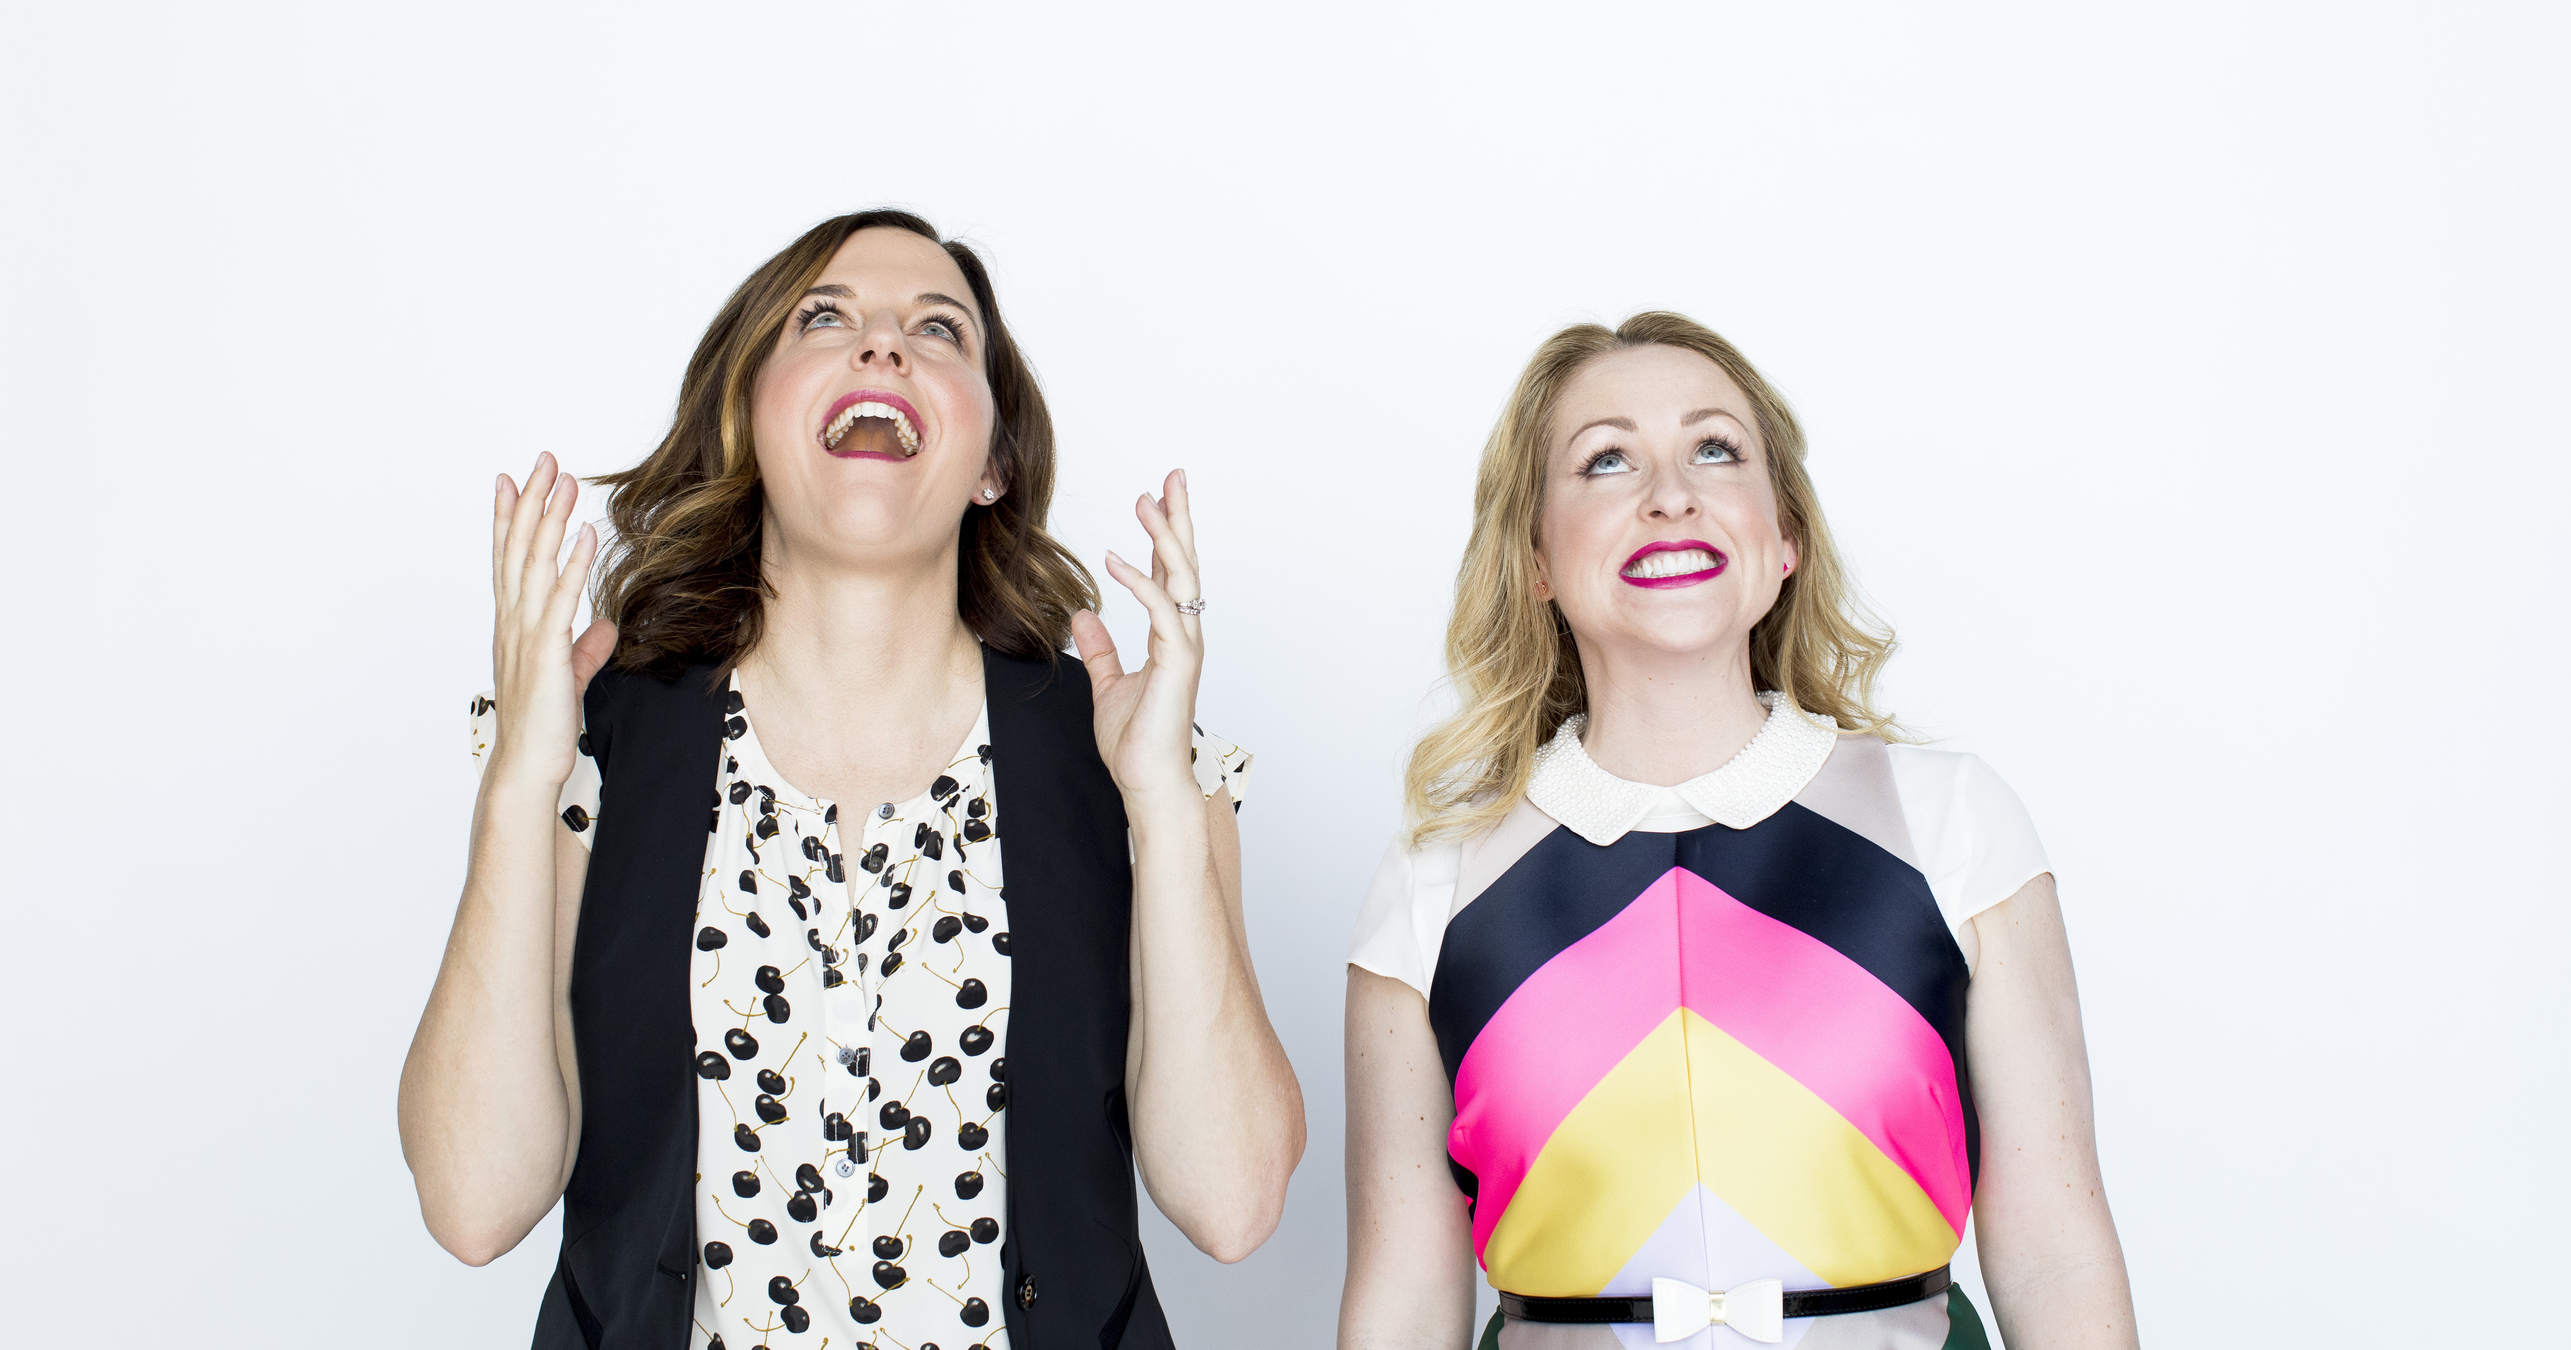
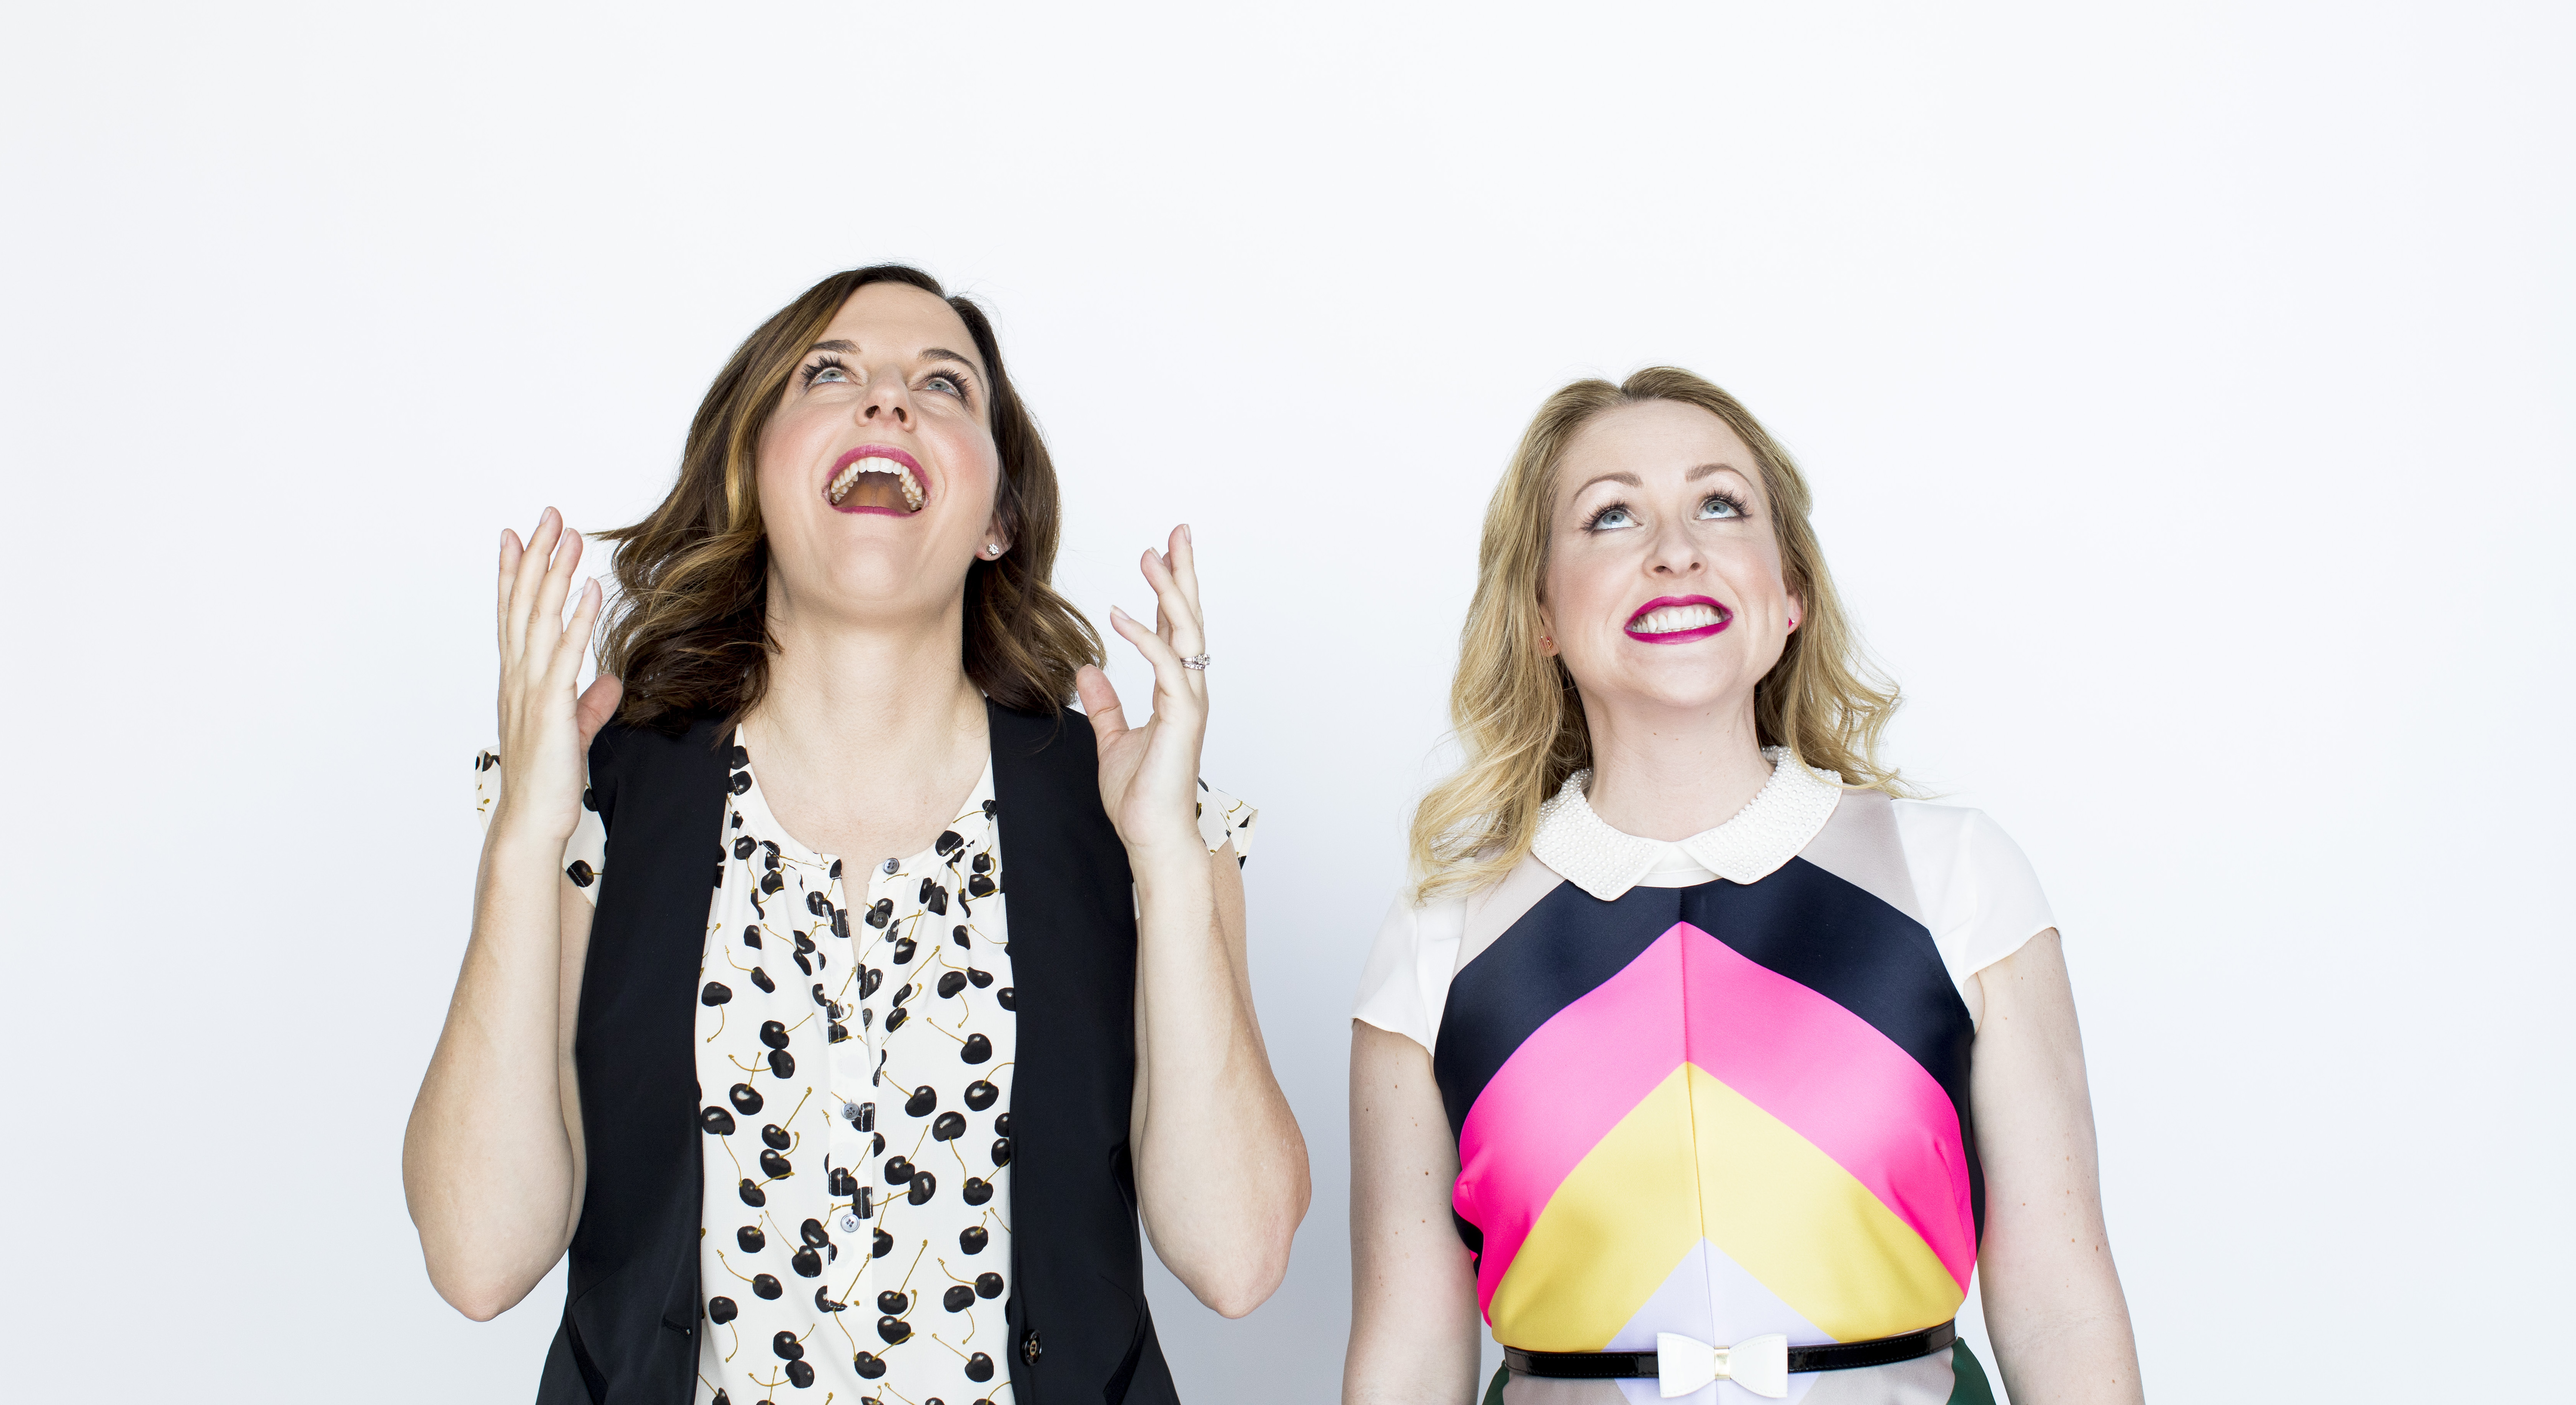
Enlarged second image

diff --git a/css/scrolling-nav.css b/css/scrolling-nav.css
@@ -368,7 +368,7 @@ iframe {
 }
 
 .bio-pic {
-    min-height: 550px;
+    min-height: 750px;
     background-image: url('../assets/bio.jpg');
 }
 
